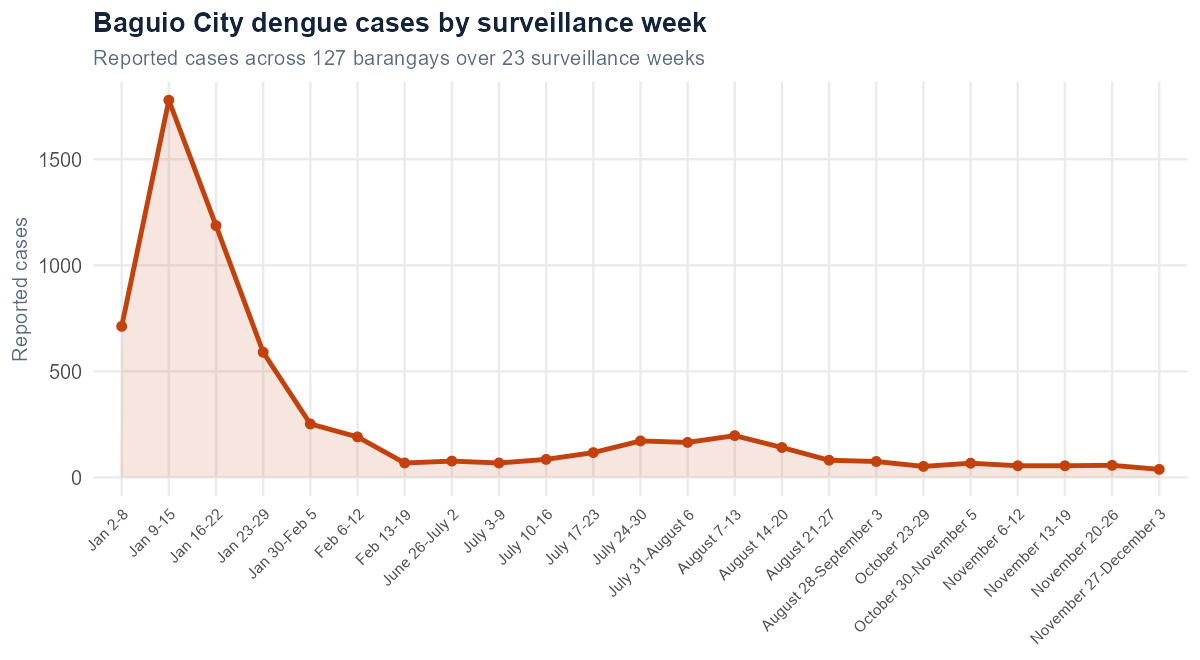
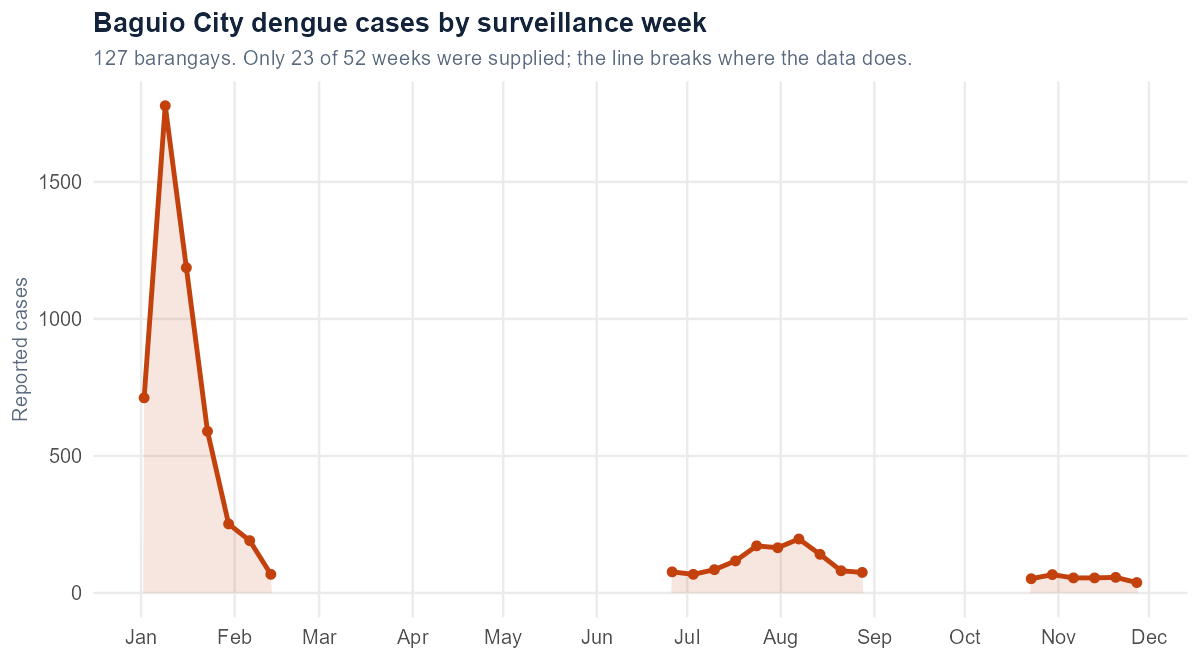
Stop drawing a line through four missing months
The surveillance record is 23 of 52 weeks with an eighteen-week hole
from mid-February and seven more in autumn. Both the static chart and
the interactive one plotted the weeks as evenly spaced categories, which
drew a continuous series straight across the gaps and implied a trend
nobody measured. Both now use a real date axis and break into runs where
the data breaks.

The copy no longer claims the outbreak held at a low baseline "for the
rest of the year", because more than half the year was never supplied.
Also reconciles 127 barangays against 121 usable polygons, retires the
last two vanity tiles, and corrects a heading that claimed authorship of
coursework.

diff --git a/index.html b/index.html
@@ -77,19 +77,19 @@
     <div class="stats reveal">
       <div class="stat">
         <div class="num"><span data-count="127">0</span></div>
-        <div class="lbl">Barangays mapped across two disease datasets</div>
+        <div class="lbl">Barangays mapped and joined on PSGC code</div>
       </div>
       <div class="stat">
         <div class="num"><span data-count="23">0</span></div>
-        <div class="lbl">Surveillance weeks reconstructed and cross-checked</div>
+        <div class="lbl">Surveillance weeks recovered from a partial record</div>
       </div>
       <div class="stat">
-        <div class="num"><span data-count="1778">0</span></div>
-        <div class="lbl">Peak weekly cases in the outbreak analysed</div>
+        <div class="num"><span data-count="32">0</span><span>%</span></div>
+        <div class="lbl">Of dengue cases in the worst tenth of the city</div>
       </div>
       <div class="stat">
-        <div class="num"><span data-count="5">0</span></div>
-        <div class="lbl">Modelling projects in R, MATLAB and Python</div>
+        <div class="num"><span data-count="34">0</span></div>
+        <div class="lbl">Programs written to verify the thesis results</div>
       </div>
     </div>
   </div>
@@ -99,7 +99,7 @@
   <div class="wrap">
     <div class="sec-head reveal">
       <div class="mono-label">Selected work</div>
-      <h2>Models I built, and the checks that made me trust them</h2>
+      <h2>The work, and the checks that made me trust it</h2>
       <p>
         Coursework, thesis and group research in mathematical modelling and
         applied statistics. Every figure is generated from the underlying model
@@ -114,11 +114,18 @@
         <h3>Dengue surveillance, Baguio City</h3>
         <div class="meta">R &middot; QGIS &middot; Spatiotemporal analysis</div>
         <p>
-          Barangay-level dengue surveillance across <strong>127 barangays</strong>
-          and <strong>23 reporting weeks</strong>, joined on PSGC codes and
-          originally mapped in QGIS. The series resolves a sharp outbreak peaking in the week of
-          9 to 15 January, decaying from 1,778 reported cases to fewer than 70
-          within six weeks, then holding at a low baseline for the rest of the year.
+          Barangay-level dengue surveillance across <strong>127 barangays</strong>,
+          joined on PSGC codes and originally mapped in QGIS. The record supplied
+          was partial: <strong>23 of 52 weeks</strong>, broken by an eighteen-week
+          hole from mid-February and a further seven weeks in autumn. The charts
+          break where the data does, because drawing a line through four missing
+          months would invent a trend nobody measured.
+        </p>
+        <p>
+          Within what is covered, a sharp outbreak peaks in the week of 9 to 15
+          January at <strong>1,778 reported cases</strong> and falls below 70
+          within six weeks. A smaller rise follows through July and August once
+          reporting resumes. What happened in between is simply not in the data.
         </p>
         <p>
           The substantive finding is that the burden is
@@ -174,8 +181,9 @@
           <figcaption>
             Regenerated in R from the survey boundaries. They arrive as CAD
             linestrings, so they are polygonised and dissolved by PSGC code
-            before joining. Shaded by case count rather than rate, for the
-            denominator reason above, and deliberately unlabelled.
+            before joining, which recovers usable geometry for 121 of the 127
+            barangays. Shaded by case count rather than rate, for the denominator
+            reason above, and deliberately unlabelled.
           </figcaption>
         </figure>
         <div class="lab" style="margin-top:16px">

diff --git a/assets/js/app.js b/assets/js/app.js
@@ -254,7 +254,13 @@
     }
 
     var max = Math.max.apply(null, values) * 1.08;
-    var x = function (i) { return m.l + (iw / (labels.length - 1 || 1)) * i; };
+    // Space points by their real date where offsets are supplied, so a
+    // four-month hole in the record reads as a hole and not as a straight line.
+    var days = (DEN.view === 'weeks' && d.days && d.days.length === values.length) ? d.days : null;
+    var span = days ? (days[days.length - 1] - days[0]) || 1 : 1;
+    var x = days
+      ? function (i) { return m.l + ((days[i] - days[0]) / span) * iw; }
+      : function (i) { return m.l + (iw / (labels.length - 1 || 1)) * i; };
     var xb = function (i) { return m.l + (iw / labels.length) * (i + .5); };
     var y = function (v) { return m.t + ih - (v / max) * ih; };
 
@@ -270,12 +276,26 @@
 
     if (DEN.view === 'weeks') {
       var pts = values.map(function (v, i) { return [x(i), y(v)]; });
-      var areaD = 'M' + x(0) + ' ' + y(0) + ' ' +
-        pts.map(function (q) { return 'L' + q[0].toFixed(2) + ' ' + q[1].toFixed(2); }).join(' ') +
-        ' L' + x(values.length - 1) + ' ' + y(0) + ' Z';
-      svg.appendChild(el('path', { d: areaD, fill: css('--accent'), opacity: .12 }));
-      svg.appendChild(el('path', { d: pathFrom(pts), fill: 'none', stroke: css('--accent'),
-        'stroke-width': 2.2, 'stroke-linejoin': 'round' }));
+
+      // break the series wherever more than one week separates two readings
+      var runs = [[0]];
+      for (var k = 1; k < values.length; k++) {
+        if (days && days[k] - days[k - 1] > 7) runs.push([k]);
+        else runs[runs.length - 1].push(k);
+      }
+      runs.forEach(function (run) {
+        var rp = run.map(function (i) { return pts[i]; });
+        var first = rp[0], last = rp[rp.length - 1];
+        var areaD = 'M' + first[0].toFixed(2) + ' ' + y(0) + ' ' +
+          rp.map(function (q) { return 'L' + q[0].toFixed(2) + ' ' + q[1].toFixed(2); }).join(' ') +
+          ' L' + last[0].toFixed(2) + ' ' + y(0) + ' Z';
+        svg.appendChild(el('path', { d: areaD, fill: css('--accent'), opacity: .12 }));
+        if (rp.length > 1) {
+          svg.appendChild(el('path', { d: pathFrom(rp), fill: 'none', stroke: css('--accent'),
+            'stroke-width': 2.2, 'stroke-linejoin': 'round' }));
+        }
+      });
+
       pts.forEach(function (q, i) {
         svg.appendChild(el('circle', { cx: q[0], cy: q[1], r: 3, fill: css('--accent') }));
         var hit = el('rect', { x: q[0] - 9, y: m.t, width: 18, height: ih,
